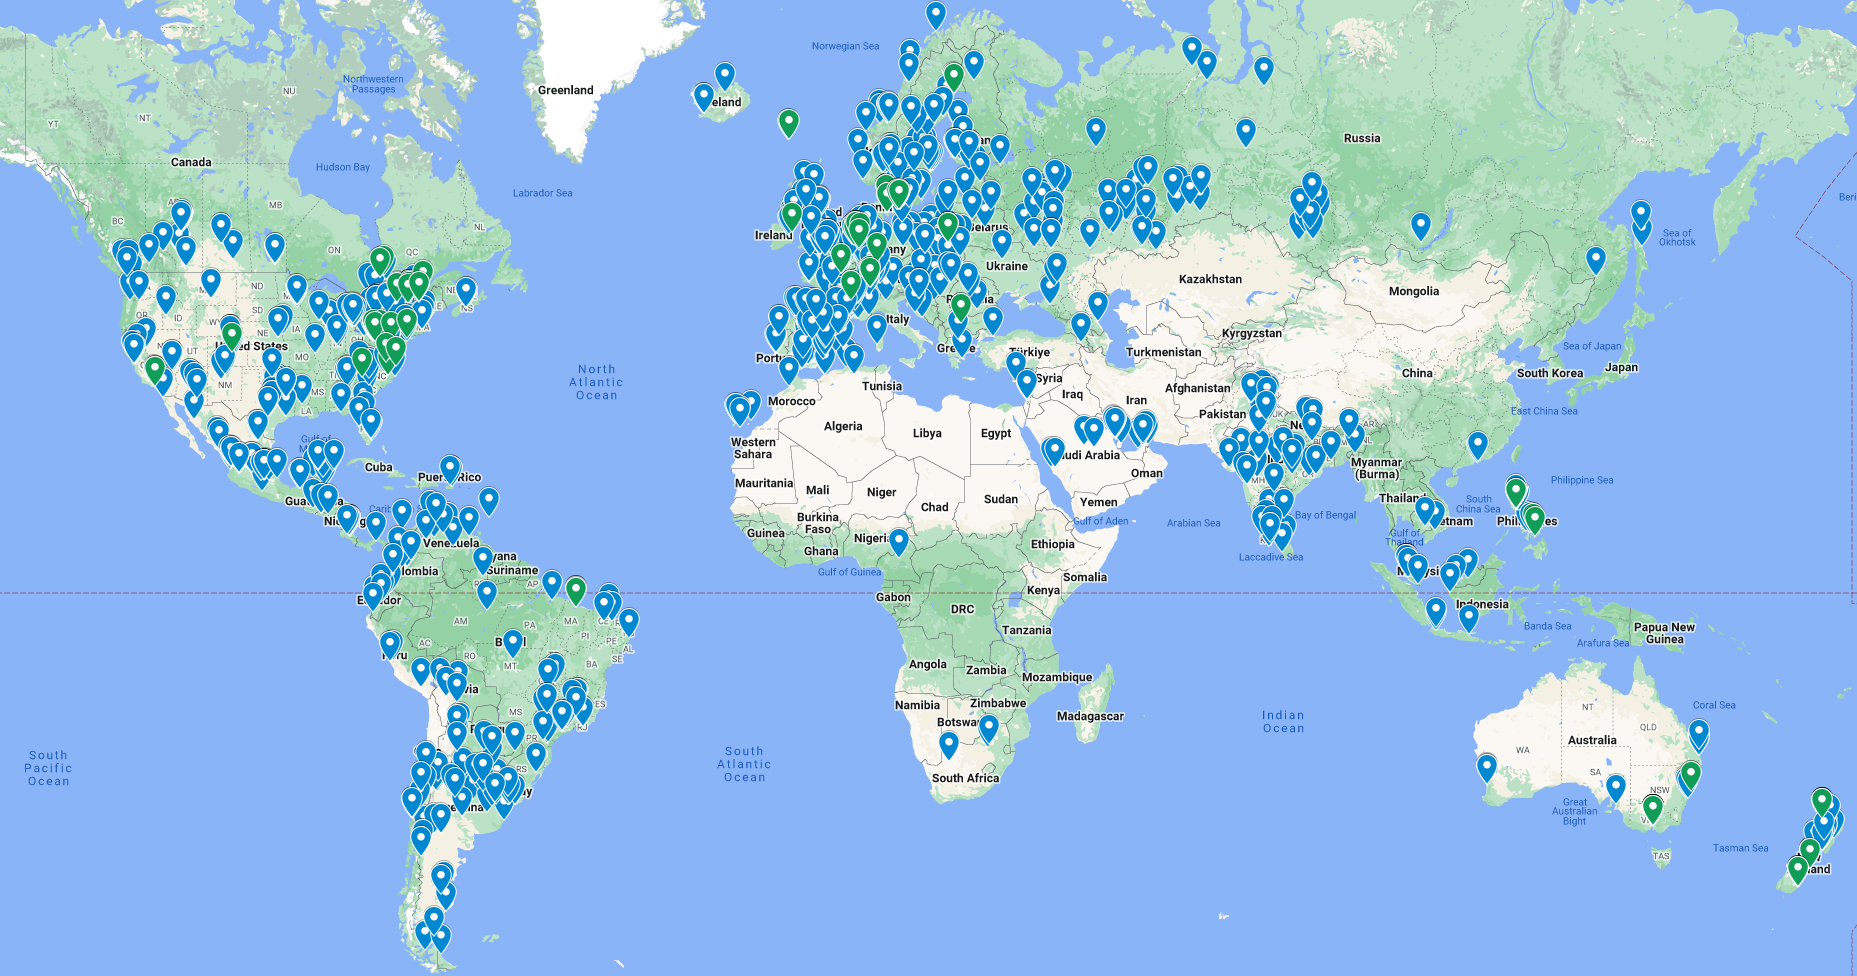
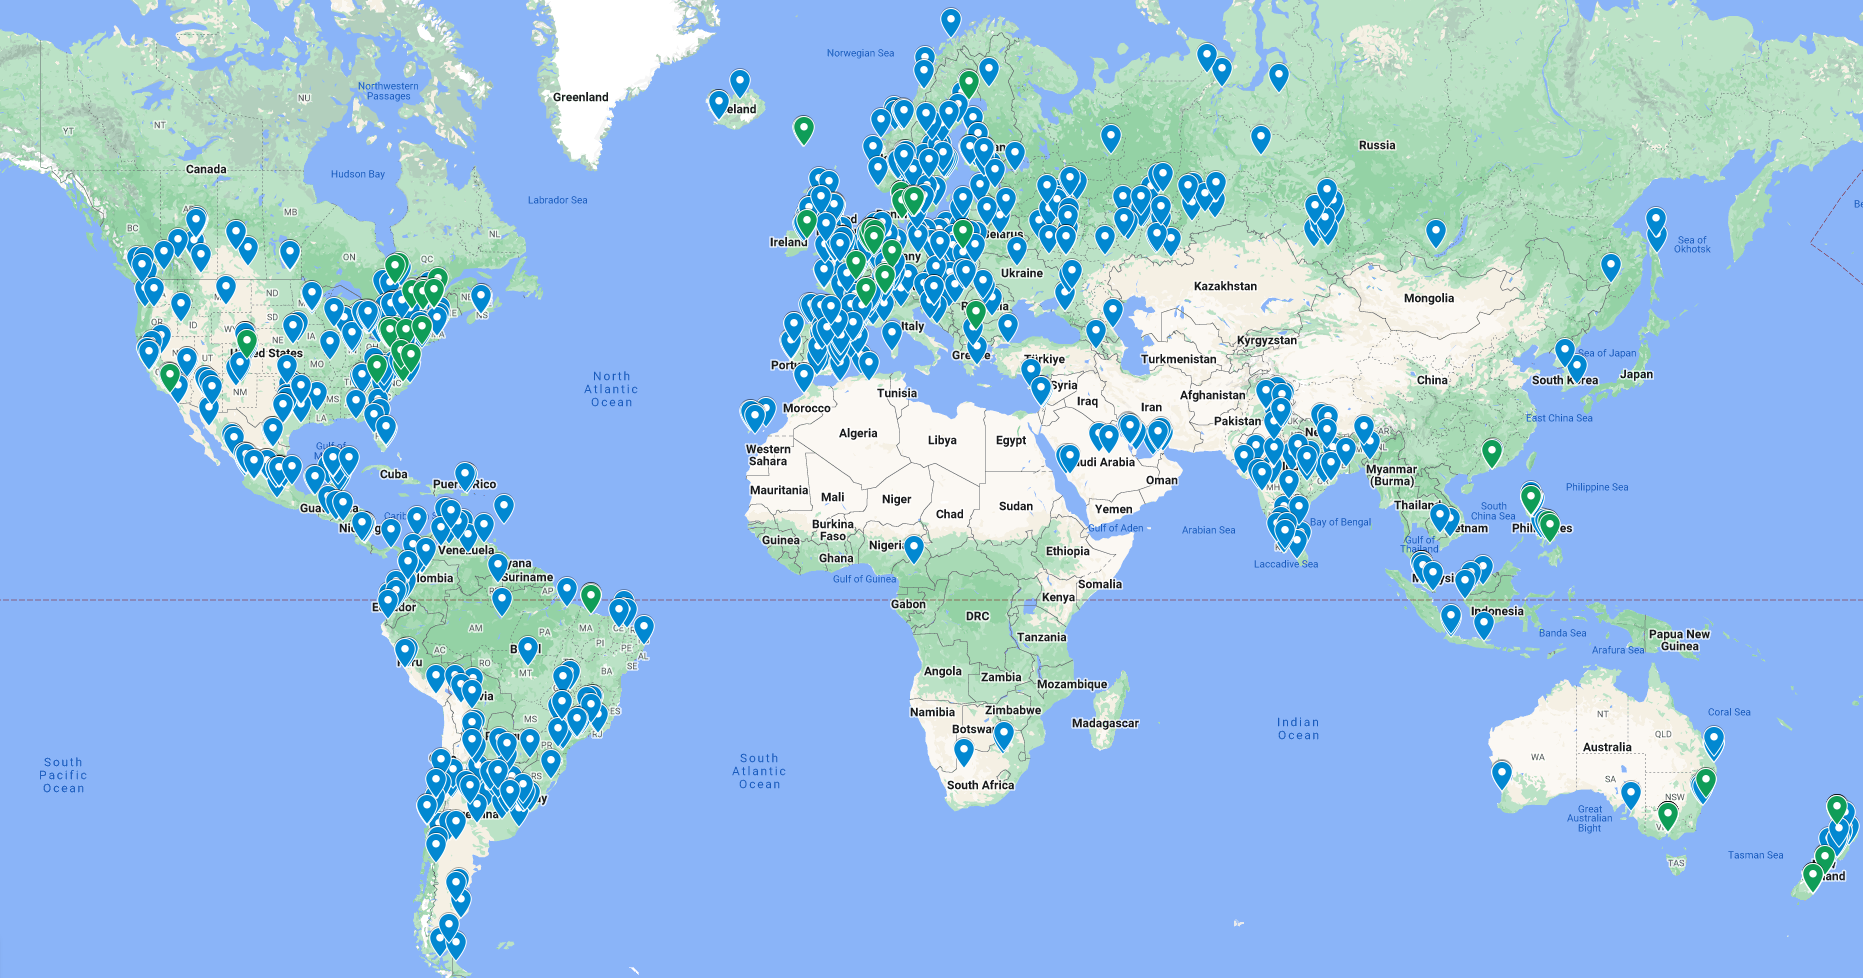
countries

diff --git a/docs/Countries.md b/docs/Countries.md
@@ -6,4 +6,4 @@ The (\*) indicates that a translation of the screens and scoreboard to the local
 
 | Used at National Federation Events or<br/>for International Events | Used for Regional or Local Events                            |
 | ------------------------------------------------------------ | ------------------------------------------------------------ |
-| Canada (\*)<br/>United States of America<br />Mexico (\*)<br/>El Salvador (\*)<br/>Puerto Rico (\*)<br/>Argentina (\*)<br/>Brazil (\*)<br/>Ecuador (\*)<br/>Peru (\*)<br/>Uruguay (\*)<br/>Venezuela (\*)<br/>Aruba<br />Curaçao<br/>Barbados<br /><br/>New Zealand<br/><br/>Denmark (\*)<br/>Faroe Islands (\*)<br/>Iceland<br/>Sweden (\*)<br/>Finland (*)<br/>Norway<br />Portugal (\*)<br/>Spain (Masters) (\*)<br/>France (\*)<br/>Belgium<br />England (\*)<br/>Netherlands<br/>Hungary (\*)<br/>Greece<br />Armenia (\*)<br/>Lithuania<br/>Poland<br/>Israel<br/>Russia (\*)<br/><br/>Algeria<br/>Bahrain<br />United Arab Emirates | Colombia (\*)<br />Chile (\*)<br />Panama (\*)<br />Costa Rica (\*)<br />Guatemala (*)<br /><br />Spain (several regions) (\*)<br/>Ireland<br/>Northern Ireland<br />Scotland<br/>Germany (\*)<br/>Austria<br />Luxembourg<br />Serbia<br />Croatia<br />Latvia<br />Estonia<br />Georgia<br />Romania (\*)<br />Bulgaria<br />Switzerland<br />Slovenia<br />Italy<br />Türkiye<br />Cyprus<br />Ukraine<br /><br />Australia<br/><br />India<br />Pakistan<br />Nepal<br /><br />Morocco<br />Saudi Arabia<br />Qatar<br /><br />Vietnam<br />Cambodia<br />Malaysia<br />Indonesia<br />Philippines<br />Hong Kong<br />South Korea<br /><br />Cameroon<br />South Africa<br/> |
+| Canada (\*)<br/>United States of America<br />Mexico (\*)<br/>El Salvador (\*)<br/>Puerto Rico (\*)<br/>Argentina (\*)<br/>Brazil (\*)<br/>Ecuador (\*)<br/>Peru (\*)<br/>Uruguay (\*)<br/>Venezuela (\*)<br/>Aruba<br />Curaçao<br/>Barbados<br /><br/>New Zealand<br/><br/>Denmark (\*)<br/>Faroe Islands (\*)<br/>Iceland<br/>Sweden (\*)<br/>Finland (*)<br/>Norway<br />Portugal (\*)<br/>Spain (Masters) (\*)<br/>France (\*)<br/>Belgium<br />England (\*)<br/>Netherlands<br/>Hungary (\*)<br/>Greece<br />Armenia (\*)<br/>Lithuania<br/>Poland<br/>Israel<br/>Russia (\*)<br/><br/>Algeria<br/>Bahrain<br />United Arab Emirates | Colombia (\*)<br />Chile (\*)<br />Panama (\*)<br />Costa Rica (\*)<br />Guatemala (*)<br /><br />Spain (several regions) (\*)<br/>Ireland<br/>Northern Ireland<br />Scotland<br/>Germany (\*)<br/>Austria<br />Luxembourg<br />Serbia<br />Croatia<br />Latvia<br />Estonia<br />Georgia<br />Romania (\*)<br />Bulgaria<br />Switzerland<br />Slovenia<br />Italy<br />Türkiye<br />Cyprus<br />Ukraine<br />Belarus<br /><br />Australia<br/><br />India<br />Pakistan<br />Nepal<br /><br />Morocco<br />Saudi Arabia<br />Qatar<br /><br />Vietnam<br />Cambodia<br />Malaysia<br />Indonesia<br />Philippines<br />Hong Kong<br />South Korea<br /><br />Cameroon<br />South Africa<br/> |

diff --git a/docs/index.md b/docs/index.md
@@ -19,7 +19,7 @@
 
 
 <table>
-<tr><td><a href="https://www.google.com/maps/d/embed?mid=1cFqfyfoF_RSoM56GewSPDWbuoHihsw4&ehbc=2E312F&ll=29.63705469324934%2C18.91643749999993&z=3" target="_bkank"><img src='img/Gallery/Map.png'></a></td><td>Current Usage<br/><a href="https://www.google.com/maps/d/embed?mid=1cFqfyfoF_RSoM56GewSPDWbuoHihsw4&ehbc=2E312F&ll=29.63705469324934%2C18.91643749999993&z=3" target="_blank">Click on image for an interactive map</a>.<br/>The owlcms competition management system is currently in use in over 70 federations.  See here for <a href="./#/Countries">a list</a></td></tr>
+<tr><td><a href="https://www.google.com/maps/d/embed?mid=1cFqfyfoF_RSoM56GewSPDWbuoHihsw4&ehbc=2E312F&ll=29.63705469324934%2C18.91643749999993&z=3" target="_bkank"><img src='img/Gallery/Map.png'></a></td><td>Current Usage<br/><a href="https://www.google.com/maps/d/embed?mid=1cFqfyfoF_RSoM56GewSPDWbuoHihsw4&ehbc=2E312F&ll=29.63705469324934%2C18.91643749999993&z=3" target="_blank">Click on image for an interactive map</a>.<br/>The owlcms competition management system is currently in use in over 75 federations.  See here for <a href="./#/Countries">a list</a></td></tr>
 <tr><td><img src='img/Gallery/IMG_5050.jpg'></img></td><td>USA National Championships<br>1500 athletes, 9 days (U11, U13, U15, U17, U20, U23, U25, Open and Adaptive championships)</td></tr>
 <tr><td><img src='img/Gallery/ElSalvador.jpg'></img></td><td>National Competition, El Salvador.<br>A simple setup with everyday electronics.</td></tr>
 <tr><td><img src='img/Gallery/chelles.jpg' size=250></img></td><td>Club meet, Chelles, France.<br>Supports mixed-gender kid groups.  Attempt board shows correct loading for 5kg/10kg bars and 2.5kg/5kg large plates.</td></tr>
@@ -29,6 +29,7 @@
 <tr><td><img src='img/Gallery/lima.jpg'></img></td><td>PanAm Junior and SouthAmerican  U20/U17/U15 Championships, Lima, Peru.<br>The program  supports simultaneous platforms and displays the multiple rankings for multiple concurrent age group competitions</td></tr>
 <tr><td><img src='img/Gallery/BRICS.png'></img></td><td>BRICS Games 2024 Multi-national event.</td></tr>
 </table>
+
 
 
 
